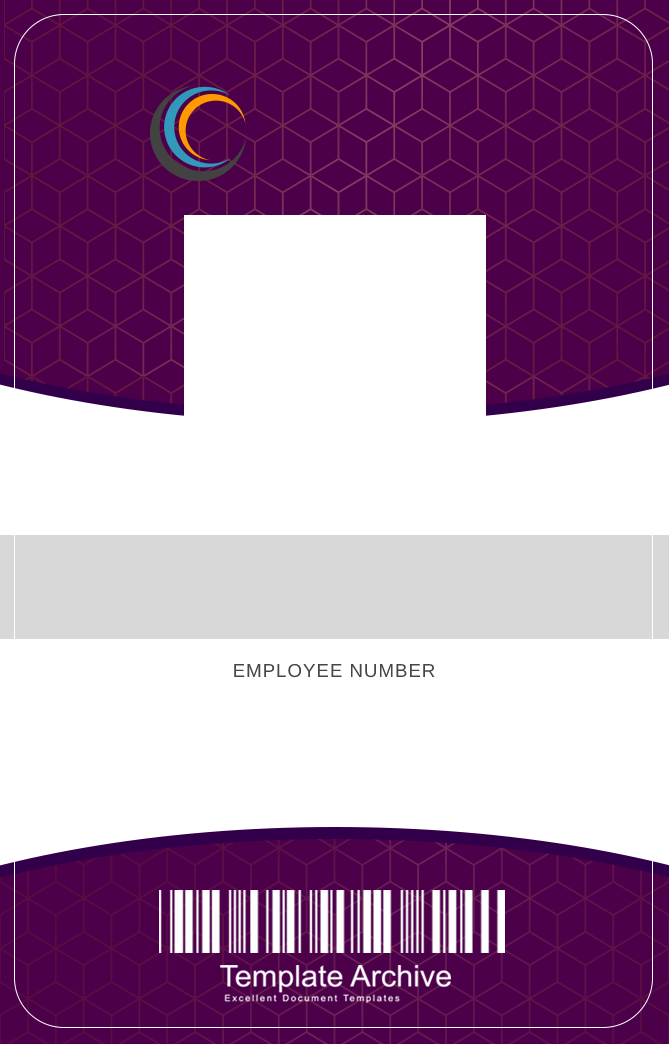
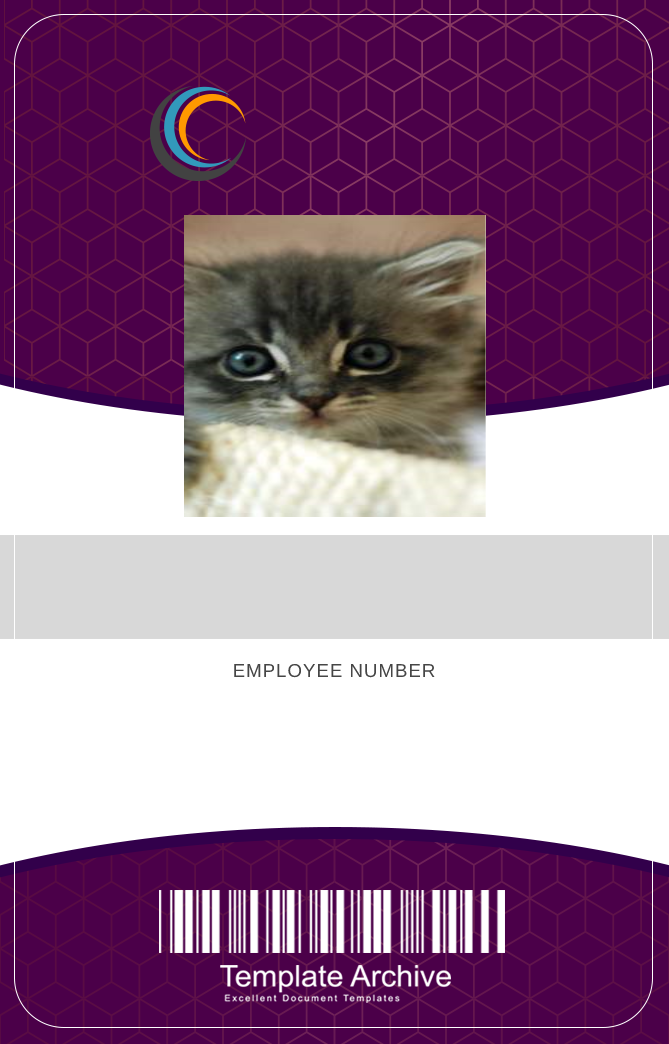
Saving image with photo to badge

Changed region(s): [[0.2691, 0.1839, 0.7474, 0.5211]]

diff --git a/util.cs b/util.cs
@@ -75,8 +75,12 @@ namespace CatWorx.BadgeMaker
                     Image photo = Image.FromStream(client.OpenRead(employees[i].GetPhotoUrl()));
                     Image background = Image.FromFile("badge.png");
                     Image badge = new Bitmap(BADGE_WIDTH, BADGE_HEIGHT);
+
                     Graphics graphic = Graphics.FromImage(badge);
                     graphic.DrawImage(background, new Rectangle(0, 0, BADGE_WIDTH, BADGE_HEIGHT));
+                    graphic.DrawImage(photo, new Rectangle(PHOTO_START_X, PHOTO_START_Y, PHOTO_WIDTH, PHOTO_HEIGHT));
+
+                    badge.Save("data/employeeBadge.png");
                 }
             }
         }

diff --git a/Program.cs b/Program.cs
@@ -8,6 +8,7 @@ namespace CatWorx.BadgeMaker
         static void Main(string[] args)
         {
             List<Employee> employees = new List<Employee>();
+            
             employees = GetEmployees();
 
             Util.MakeCSV(employees);
